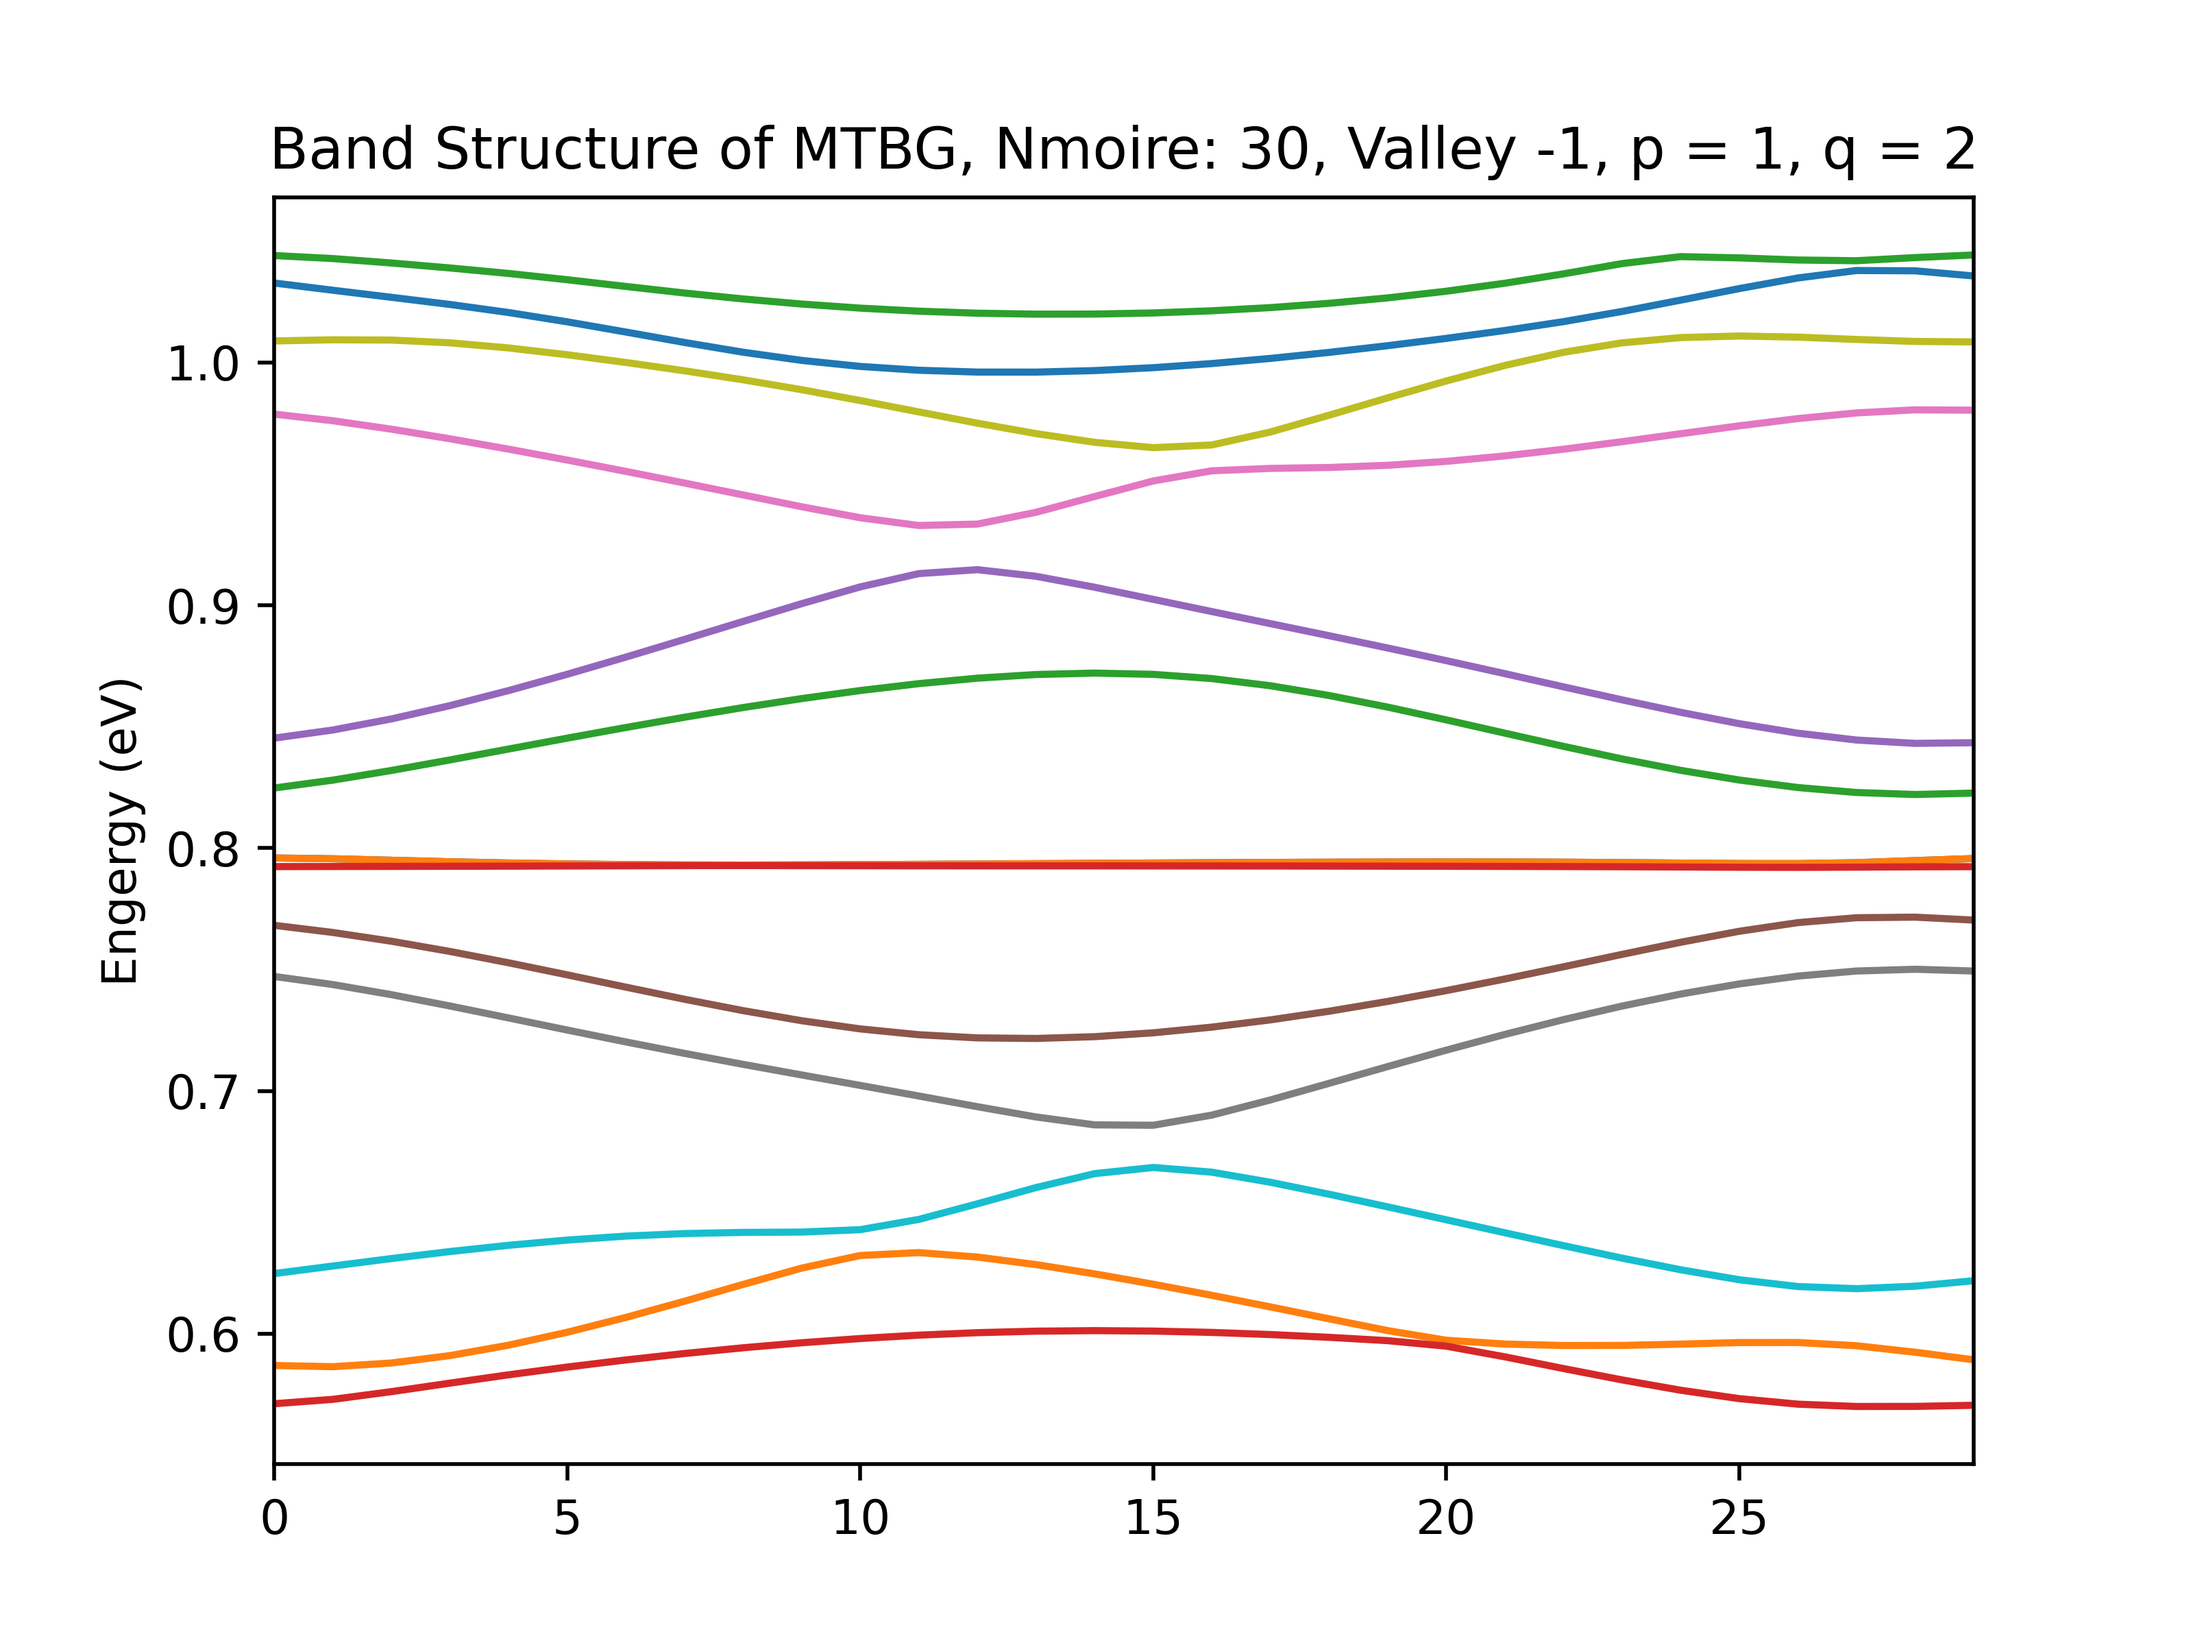
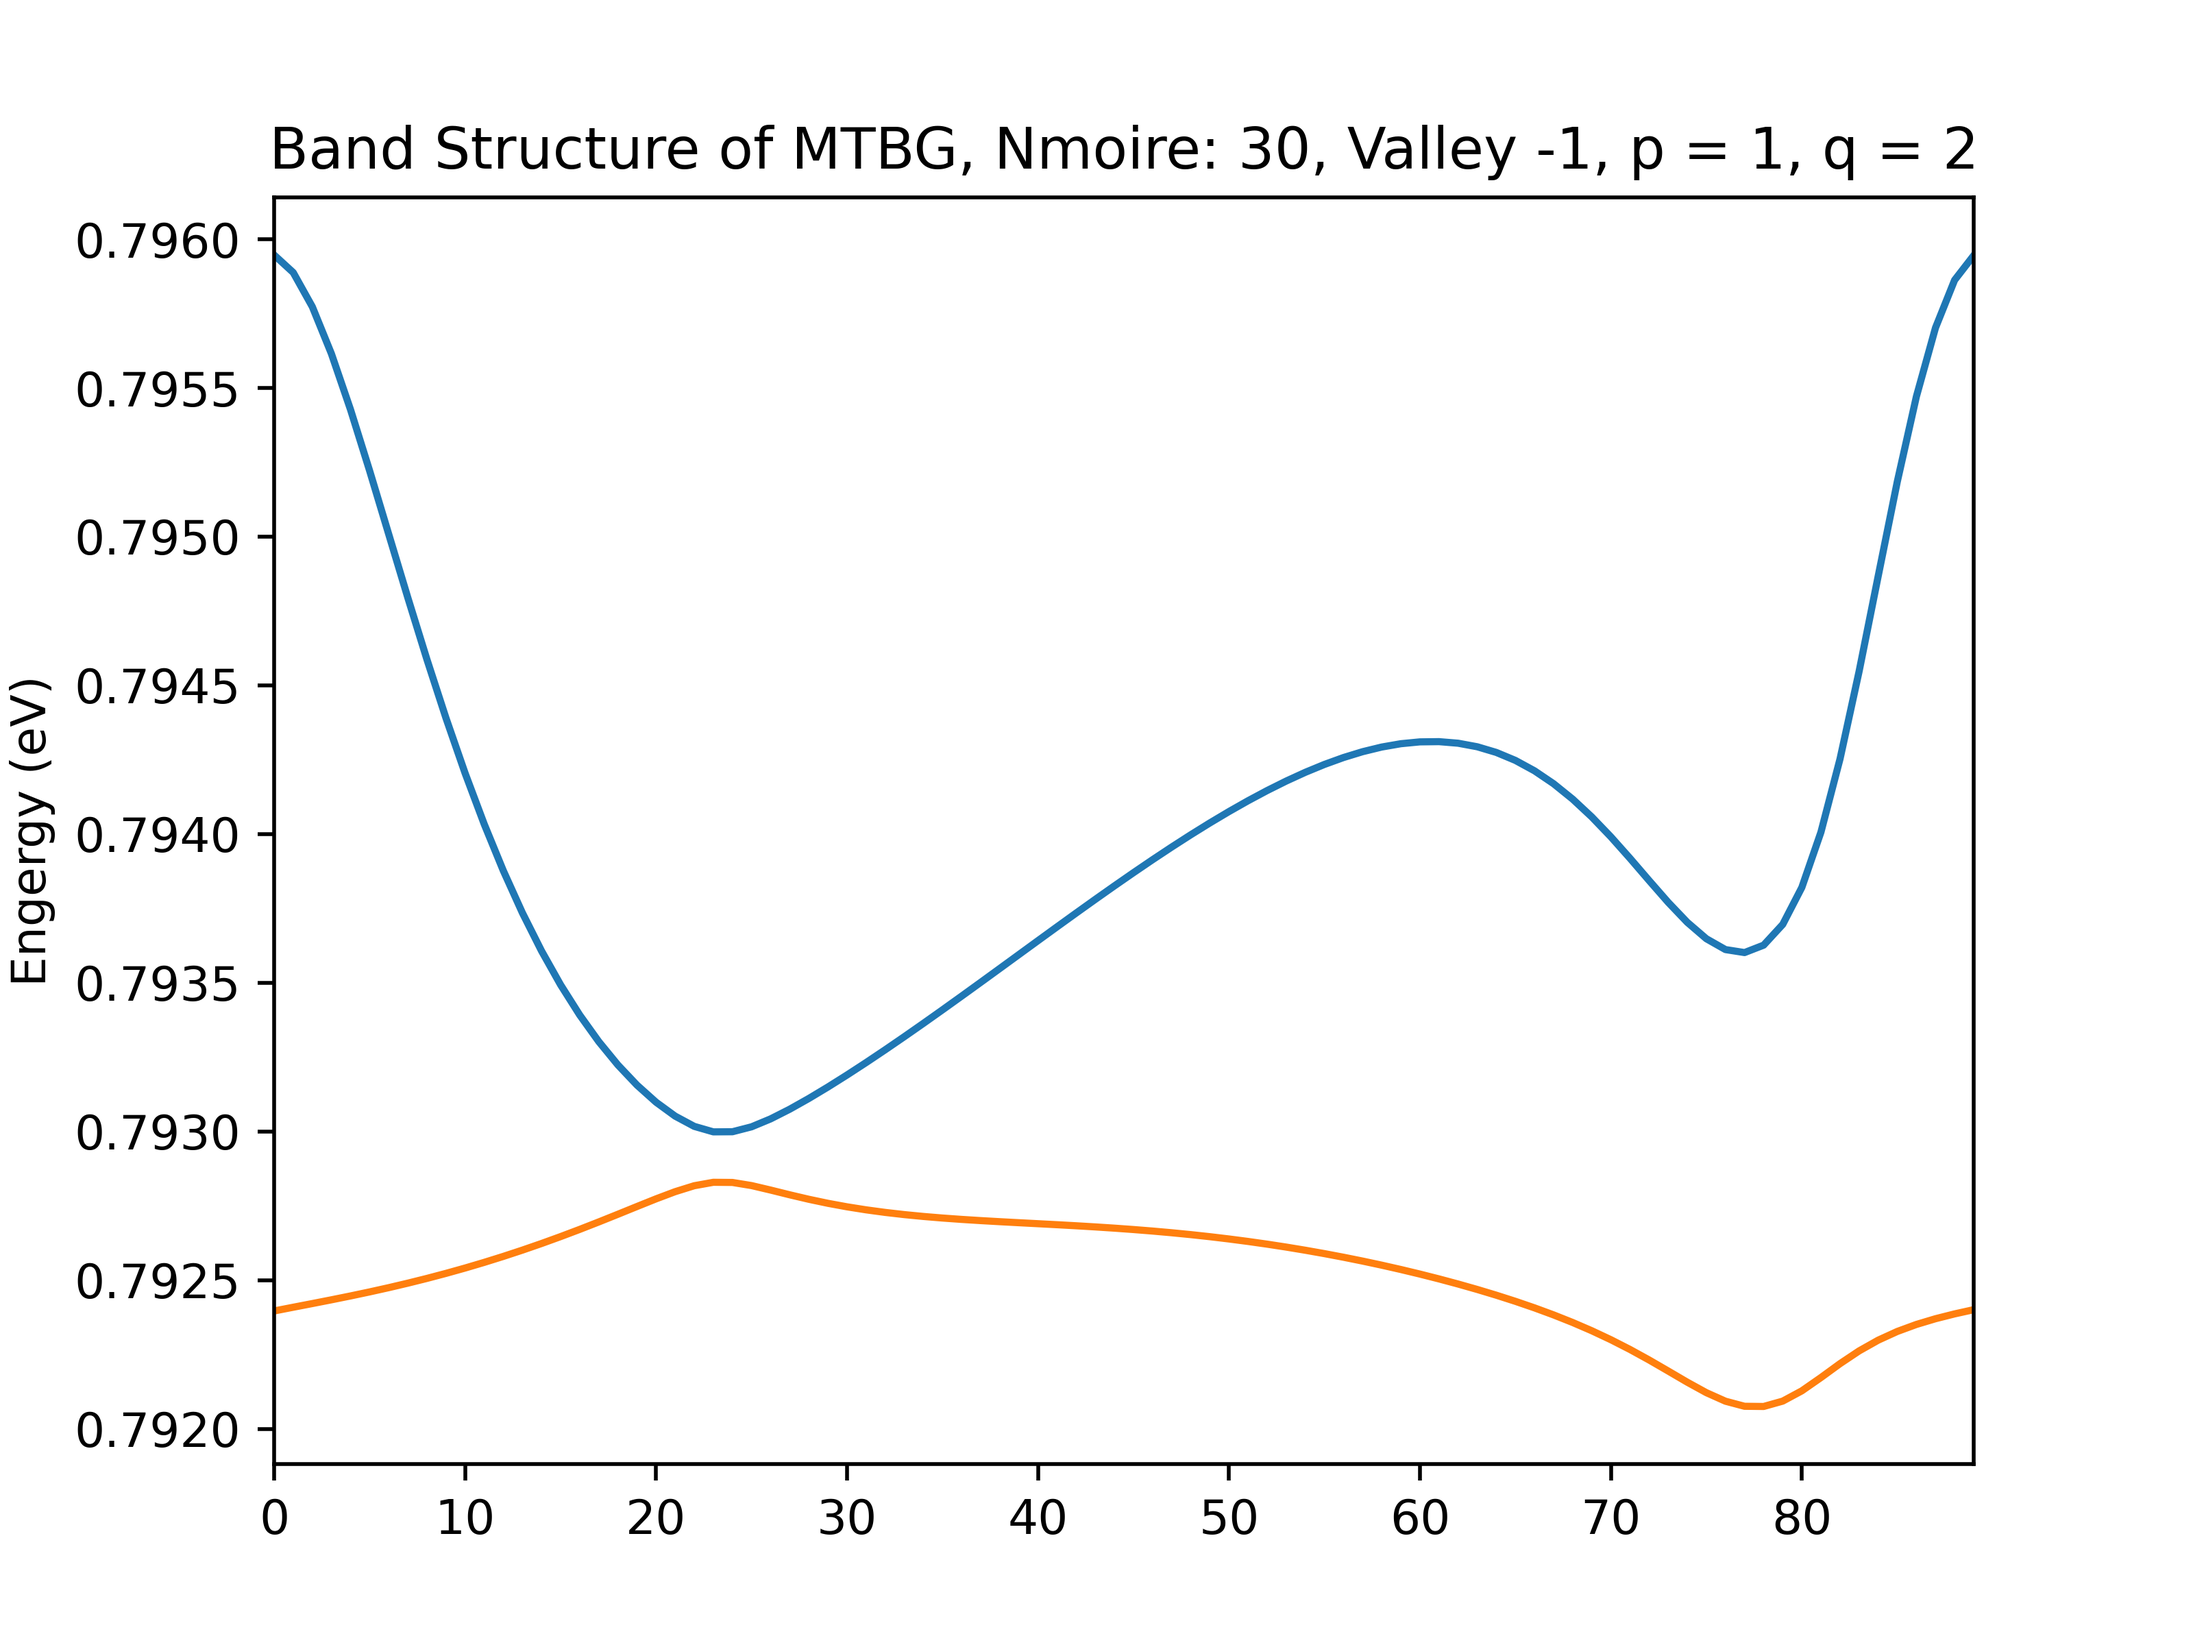
[update] focus on flat band

diff --git a/utils/mag_tb_disp.py b/utils/mag_tb_disp.py
@@ -11,13 +11,13 @@ VALLEY_2 = -1
 
 n_moire = 30
 n_g = 5
-n_k = 30
+n_k = 90
 p = 1
 qlist = [i for i in range(2, 10)]
 q = 8
 
 for q in qlist:
-    (emesh, dmesh) = mgtb.mag_tb_solver(n_moire, n_g, n_k, VALLEY_2, p, q, disp=True)
+    (emesh, dmesh) = mgtb.mag_tb_solver(n_moire, n_g, n_k, VALLEY_1, p, q, disp=True)
     emesh = np.array(emesh)
     dmesh = np.array(dmesh)
     xmax  = emesh.shape[0]
@@ -25,16 +25,16 @@ for q in qlist:
 
     n_band = emesh[0].shape[0]
     fig, ax = plt.subplots()
-    # ax.set_xticks([kline[0], kline[n_k], kline[2*n_k-1], kline[3*n_k-1]])
-    # ax.set_xticklabels(["K1", "Γ", "M", "K2"])
     ax.set_xlim(0, kline[-1])
 
     # 7 bands
-    for i in range(7):
-        plt.plot(kline, emesh[:, n_band//2+i])
-        plt.plot(kline, emesh[:, n_band//2-i])
+    # for i in range(7):
+    #     plt.plot(kline, emesh[:, n_band//2+i])
+    #     plt.plot(kline, emesh[:, n_band//2-i])
+    plt.plot(kline, emesh[:, n_band//2])
+    plt.plot(kline, emesh[:, n_band//2-1])
 
     ax.set_ylabel("Engergy (eV)")
-    ax.set_title("Band Structure of MTBG, Nmoire: "+str(n_moire)+", Valley -1, p = 1, q = "+str(q))
-    plt.savefig("../fig/mag_band_n_"+str(n_moire)+"_v_-1_p_1_q_"+str(q)+".png", dpi=500)
+    ax.set_title("Band Structure of MTBG, Nmoire: "+str(n_moire)+", Valley: 1, p = 1, q = "+str(q))
+    plt.savefig("../fig/mag_band_n_"+str(n_moire)+"_v_1_p_1_q_"+str(q)+".png", dpi=500)
     plt.clf()
